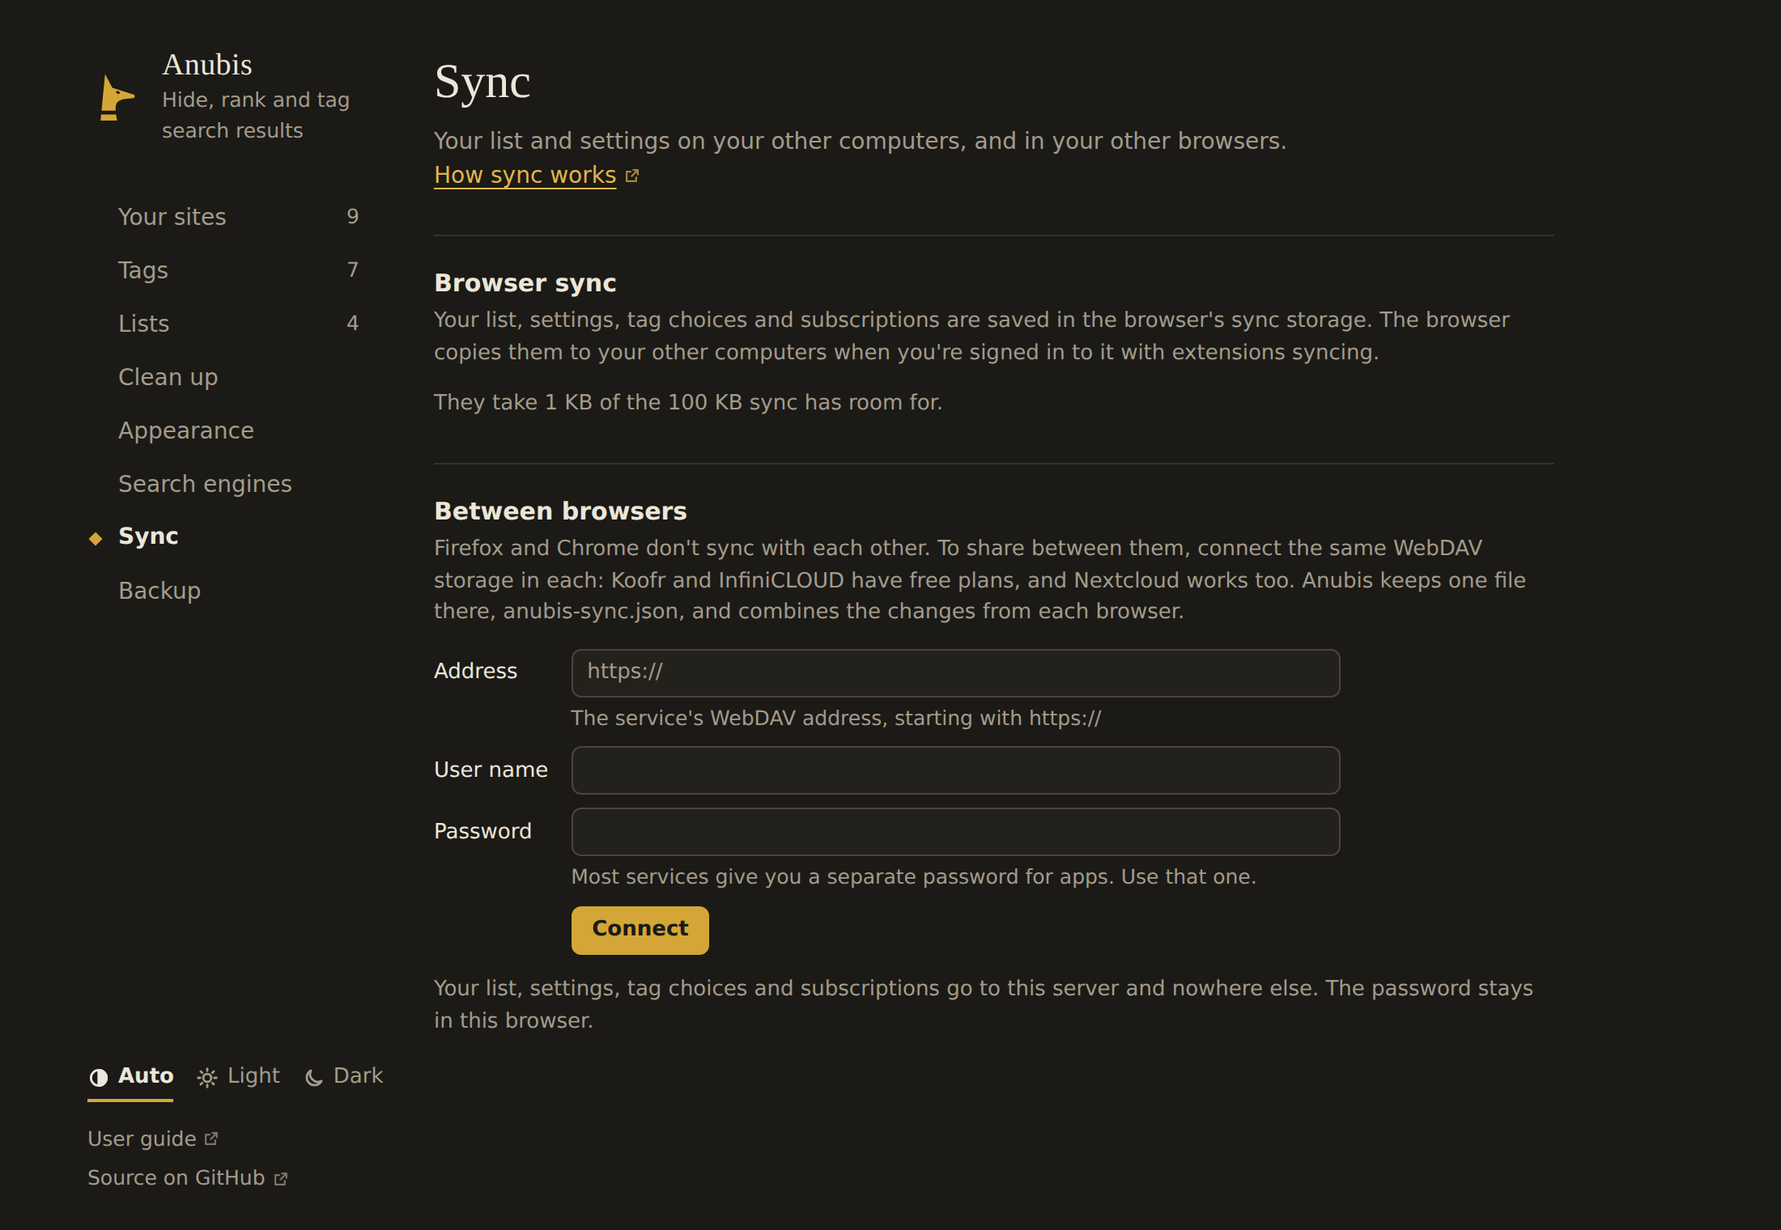
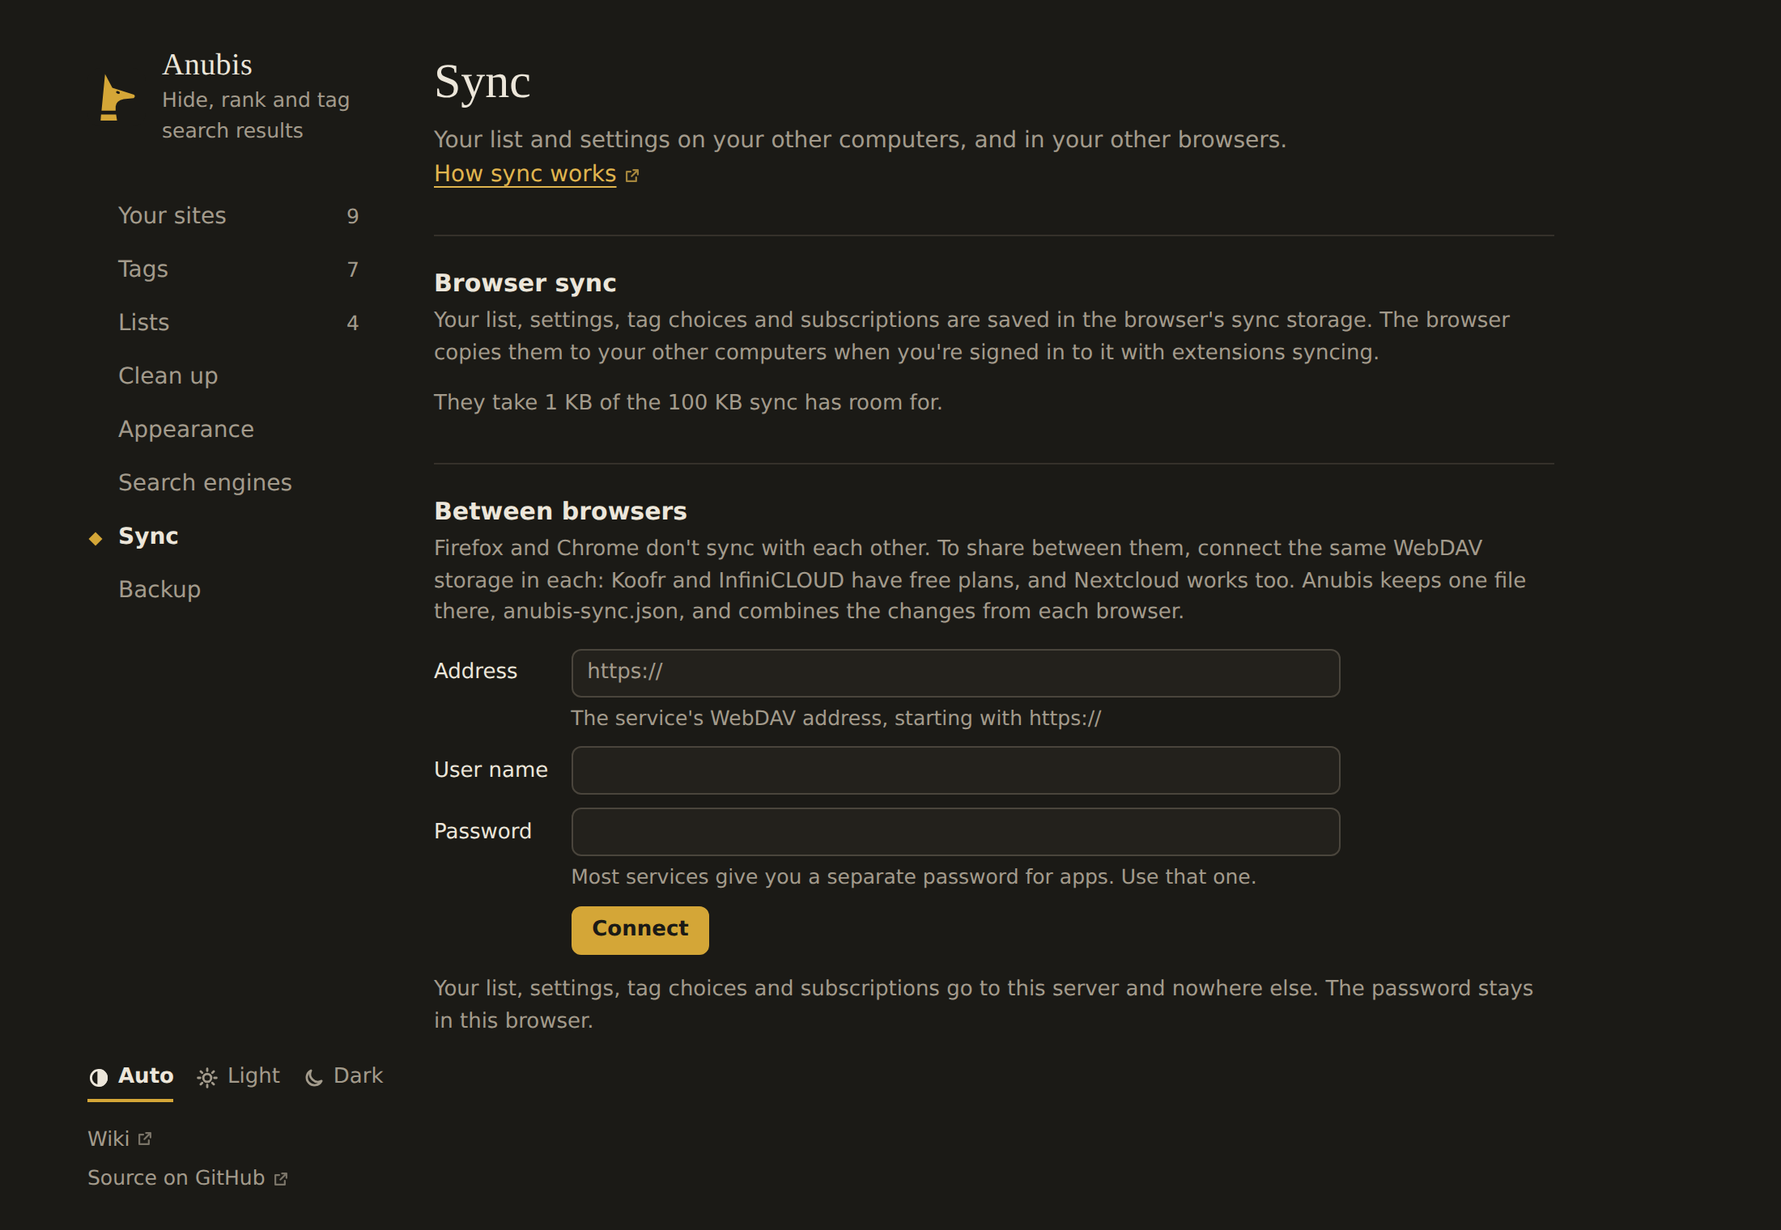
Call the user guide the wiki

diff --git a/entrypoints/options/main.ts b/entrypoints/options/main.ts
@@ -22,7 +22,7 @@ interface Section {
   id: string;
   label: string;
   render: () => Promise<HTMLElement>;
-  /** The user guide's page for this section, linked after its description. */
+  /** The wiki's page for this section, linked after its description. */
   help?: [path: string, label: string];
 }
 
@@ -76,7 +76,7 @@ async function renderNav() {
       'div',
       { class: 'foot' },
       themeSwitcher(rules.settings.theme),
-      h('div', { class: 'links' }, external(guide(), 'User guide'), external(REPO_URL, 'Source on GitHub')),
+      h('div', { class: 'links' }, external(guide(), 'Wiki'), external(REPO_URL, 'Source on GitHub')),
     ),
   );
 }

diff --git a/wxt.config.ts b/wxt.config.ts
@@ -18,7 +18,7 @@ export default defineConfig({
     // Text in the manifest comes from public/_locales/<language>/messages.json.
     default_locale: 'en',
     description: '__MSG_extDescription__',
-    // The user guide: the browser links to it from the extension's details page.
+    // The wiki: the browser links to it from the extension's details page.
     homepage_url: DOCS_URL,
     // "storage" saves your list, settings and downloaded lists. "activeTab" lets the
     // popup read the address of the tab you're on, only when you open it, so you can

diff --git a/entrypoints/subscribe.content.ts b/entrypoints/subscribe.content.ts
@@ -2,7 +2,7 @@ import { defineContentScript } from '#imports';
 import { readSubscribeLink, SUBSCRIBE_PAGE } from '@/utils/links';
 import { send } from '@/utils/messages';
 
-// Runs on the user guide's subscribe page, where the Subscribe links in the lists
+// Runs on the wiki's subscribe page, where the Subscribe links in the lists
 // directory (and on list authors' own pages) lead. It hands the list to the
 // background, which opens Settings → Lists with it filled in for you to confirm.
 // Nothing is subscribed from here: anyone can make a link.

diff --git a/tests/domain.test.ts b/tests/domain.test.ts
@@ -148,7 +148,7 @@ describe('subscribe links', () => {
     expect(readSubscribeLink(`?url=${encodeURIComponent(list)}&name=+++`)).toEqual({ url: list });
   });
 
-  it('points at a page the guide has', () => {
+  it('points at a page the wiki has', () => {
     expect(SUBSCRIBE_PAGE.startsWith(DOCS_URL)).toBe(true);
     expect(existsSync(`docs/${SUBSCRIBE_PAGE.slice(DOCS_URL.length)}.md`)).toBe(true);
   });

diff --git a/entrypoints/welcome/index.html b/entrypoints/welcome/index.html
@@ -49,7 +49,7 @@
 
       <footer>
         <div class="body">
-          <a id="guide" target="_blank" rel="noopener noreferrer" data-i18n="welcomeGuide">User guide</a>
+          <a id="guide" target="_blank" rel="noopener noreferrer" data-i18n="welcomeGuide">Wiki</a>
           <a id="privacy" target="_blank" rel="noopener noreferrer" data-i18n="welcomePrivacy">Privacy</a>
         </div>
       </footer>

diff --git a/entrypoints/options/parts.ts b/entrypoints/options/parts.ts
@@ -4,7 +4,7 @@ import { h } from '@/utils/dom';
 
 /**
  * A section's heading and what it's for, with its buttons beside them. main.ts
- * adds a link to the section's page in the user guide after the description.
+ * adds a link to the section's page in the wiki after the description.
  */
 export function pageTitle(heading: string, text: string, ...tools: HTMLElement[]): HTMLElement {
   return h(

diff --git a/docs/.vitepress/config.ts b/docs/.vitepress/config.ts
@@ -33,7 +33,7 @@ export default defineConfig({
   themeConfig: {
     logo: '/anubis.svg',
     nav: [
-      { text: 'Guide', link: '/guide/introduction', activeMatch: '/guide/' },
+      { text: 'Wiki', link: '/guide/introduction', activeMatch: '/guide/' },
       { text: 'Lists', link: '/lists' },
       { text: 'List format', link: '/list-format' },
     ],

diff --git a/utils/links.ts b/utils/links.ts
@@ -4,7 +4,7 @@
 export const REPO_URL = 'https://github.com/Bishop-V/anubis';
 export const DOCS_URL = 'https://bishop-v.github.io/anubis/';
 
-/** A page of the user guide, e.g. `guide('guide/lists')`. */
+/** A page of the wiki, e.g. `guide('guide/lists')`. */
 export const guide = (path = ''): string => `${DOCS_URL}${path}`;
 
 /**

diff --git a/DEVELOPMENT.md b/DEVELOPMENT.md
@@ -11,7 +11,7 @@ How the extension is put together, and how to make the changes that come up most
 | Vitest | Unit tests in `tests/`, with WXT's fake browser so storage code runs in Node. |
 | Playwright (`playwright-core`) | Drives Chromium for the end-to-end checks in `e2e/`. |
 | `web-ext lint` | Mozilla's add-on linter. CI fails on any warning. |
-| VitePress | The user guide in `docs/`, published to GitHub Pages. |
+| VitePress | The wiki in `docs/`, published to GitHub Pages. |
 
 Node 22 is what CI and releases use; `flake.nix` pins it for `nix develop`. `npm install` runs `wxt prepare`, which writes `.wxt/` (generated types and the `tsconfig.json` the repo's own extends). Type-checking fails until it has run.
 
@@ -28,8 +28,8 @@ npm run build          # .output/firefox-mv2/
 npm run build:chrome   # .output/chrome-mv3/
 npx web-ext lint -s .output/firefox-mv2
 npm run e2e            # Chrome build, then every end-to-end check (needs CHROMIUM_PATH)
-npm run docs:dev       # the user guide, with live reload
-npm run docs:build     # the user guide; fails on a broken link
+npm run docs:dev       # the wiki, with live reload
+npm run docs:build     # the wiki; fails on a broken link
 npm run zip            # store packages (see "Releasing")
 npm run zip:chrome
 ```
@@ -41,7 +41,7 @@ WXT turns each file or folder in `entrypoints/` into a part of the extension and
 | Entry point | Becomes | Runs |
 | --- | --- | --- |
 | `content/index.ts` | The main content script, `content.js`, with `page.css` injected beside it | On every search engine's pages (`ENGINE_MATCHES` from `utils/engines.ts`) |
-| `subscribe.content.ts` | A second content script | Only on the user guide's subscribe page |
+| `subscribe.content.ts` | A second content script | Only on the wiki's subscribe page |
 | `background.ts` | The background script: a service worker in Chrome, a background page in Firefox | Whenever the browser wakes it: install, startup, a message, a keyboard shortcut |
 | `popup/` | The toolbar button's popup | When the toolbar button is pressed |
 | `options/` | The settings page, opened in a tab | When opened |
@@ -166,7 +166,7 @@ Clean-up kinds live in `utils/cleanup.ts`:
 2. Add a row to the right settings section: `toggleRow` or `segRow` in `options/general.ts`, or `switchRow` from `options/parts.ts`.
 3. Read it where it's needed: `rules.settings` in the content script, `getSettings()` elsewhere.
 4. Changing a default for people who already use Anubis needs a one-time migration, run from the background script's `onInstalled` (see `migrateSettings`, which moved hidden results from Collapse to Remove).
-5. Describe it in the guide page for that section. Settings links each section to its page (`help` in `SECTIONS`), so keep page paths as they are.
+5. Describe it in the wiki page for that section. Settings links each section to its page (`help` in `SECTIONS`), so keep page paths as they are.
 
 Backups and the sync between browsers include every setting without further work.
 
@@ -225,7 +225,7 @@ Not everything is converted yet: `ROADMAP.md` lists what's left. Wording follows
 
 Parts print their findings rather than failing on them (turning them into assertions is on the roadmap), so read the output: a check that should say `false` and says `true` is a failure. Mock pages are models of the engines' markup, not copies of it; when an engine breaks, model the markup that broke as a variant of its mock (Google's `hostile` and `grouped` are examples) and never commit a page saved from a live search.
 
-`node e2e/run.mjs docs` redraws the user guide's screenshots in `docs/img/`, each in light and dark, the homepage's before and after, and the same pair as slides in `docs/public/`. Rendering differs slightly between runs, so commit only the images your change affects.
+`node e2e/run.mjs docs` redraws the wiki's screenshots in `docs/img/`, each in light and dark, the homepage's before and after, and the same pair as slides in `docs/public/`. Rendering differs slightly between runs, so commit only the images your change affects.
 
 ## Checking live pages
 
@@ -254,6 +254,6 @@ Mistakes that have been made once already. `docs/experiments.md` has the details
 - **Keep page state in the content script's variables**, not only in attributes: the next pass rewrites attributes, and engines trigger passes on hover.
 - **No `innerHTML`.** The add-on linter flags it. Build with `h()`, parse constant SVG with `DOMParser`, and pass `data-*` attributes to `h()` through `attrs`.
 - **Engines change their markup without notice.** Prefer structure (headings, links, nesting) to class names.
-- **Links to the guide's subscribe page carry `target="_self"`**, or VitePress's router follows them without loading the page, and the subscribe content script never runs.
+- **Links to the wiki's subscribe page carry `target="_self"`**, or VitePress's router follows them without loading the page, and the subscribe content script never runs.
 - **Keep `utils/engines.ts` and `utils/links.ts` free of browser APIs.** The build and the docs site import them.
 - **Don't change the Firefox add-on ID** in `wxt.config.ts`: it's the add-on's permanent identity, and a new one orphans everyone's stored settings.

diff --git a/CLAUDE.md b/CLAUDE.md
@@ -56,7 +56,7 @@ Everything on search pages was built against the mocks in `e2e/fixtures.mjs`: th
   - `deeper.ts`: "Load more results", bringing later result pages onto the current one
   - `cleanup.ts`: finding the blocks that clean-up removes (AI answers, video panels…), and its redirect to Google's Web tab
   - `page.css`: page-level treatments keyed off `data-anubis-*` attributes (hidden, lowered, pinned, highlight, rerank)
-- `entrypoints/subscribe.content.ts`: runs only on the guide's subscribe page (`…/anubis/subscribe?url=…&name=…`, where subscribe links lead) and asks the background to open Settings → Lists with that list filled in. Settings asks before subscribing: anyone can make a link.
+- `entrypoints/subscribe.content.ts`: runs only on the wiki's subscribe page (`…/anubis/subscribe?url=…&name=…`, where subscribe links lead) and asks the background to open Settings → Lists with that list filled in. Settings asks before subscribing: anyone can make a link.
 - `entrypoints/background.ts`: list updates (on startup and when a search page asks, at most every 30 minutes), syncing with a WebDAV server when one is connected (a few seconds after a change, on startup, and when a search page asks, at most every 5 minutes), the toolbar badge, the grey icon while Anubis is off (`public/icon-off/`), and opening the welcome page on first install
 - `entrypoints/popup/`: changes with the tab: what Anubis did on a search page (and its tags to show only), the site you're on in the cartouche and balance (`utils/balance.ts`, shared with the result menu), or adding a site by hand; then the last few of your sites
 - `entrypoints/welcome/`: the page that opens on first install: how to pin the toolbar button in this browser, searches to try, and the lists you start with
@@ -66,10 +66,10 @@ Everything on search pages was built against the mocks in `e2e/fixtures.mjs`: th
 - `utils/storage.ts`, `utils/ruleset.ts`, `utils/subscriptions.ts`: storage items, loading everything into one rule set, downloading lists
 - `utils/importers.ts`: bringing sites over from uBlacklist rules, HOHSER exports, Goggles and domain lists
 - `utils/backup.ts`: everything that follows the user (settings, tag choices, subscriptions, the personal list), as a backup file and as the sync file; `utils/merge.ts`: three-way merges of it; `utils/webdav.ts`: the optional sync between browsers through a WebDAV server
-- `utils/links.ts`: the user guide and repository addresses the extension links to, and subscribe links
+- `utils/links.ts`: the wiki and repository addresses the extension links to, and subscribe links
 - `utils/cleanup.ts`: the clean-up kinds, the headings that identify each one (with translations) and per-engine selectors
 - `lists/`: the bundled lists and `directory.json` (the "More lists" directory). `docs/list-format.md` is the format reference.
-- `docs/`: the documentation site. `guide/` holds the user guide, `lists.md` renders `lists/directory.json`, and `.vitepress/` holds the config and brand theme. The extension links to the published site through `utils/links.ts` (the manifest's `homepage_url`, the popup's Help link, a guide link on each settings section). Earlier builds link to `docs/list-format.md` on GitHub, so don't move that file, and keep page paths stable or the links from settings break. `subscribe.md` is where subscribe links lead and what the subscribe content script matches, so it can't move either. Write for people who use the extension, in the same plain words as its interface, and update the guide when a feature changes.
+- `docs/`: the documentation site. `guide/` holds the wiki's pages, `lists.md` renders `lists/directory.json`, and `.vitepress/` holds the config and brand theme. The extension links to the published site through `utils/links.ts` (the manifest's `homepage_url`, the popup's Help link, a wiki link on each settings section). Earlier builds link to `docs/list-format.md` on GitHub, so don't move that file, and keep page paths stable or the links from settings break. `subscribe.md` is where subscribe links lead and what the subscribe content script matches, so it can't move either. Write for people who use the extension, in the same plain words as its interface, and update the wiki when a feature changes.
 - `public/`: the logo (`anubis.svg`), toolbar icons (`icon/{16,32,48,96,128}.png`) and interface text (`_locales/`). WXT detects these automatically.
 - `store/`: store listing text and images. `ROADMAP.md`: planned work.
 

diff --git a/CONTRIBUTING.md b/CONTRIBUTING.md
@@ -9,7 +9,7 @@ Thanks for helping. Everything happens on GitHub: issues for reports and ideas, 
 - **Report a search engine that broke.** Name the engine and its country domain (`google.de`), give a search that shows the problem, and add a screenshot. For panels that don't go away, add the output of the snippet in [Troubleshooting](docs/guide/troubleshooting.md), which copies the page's structure without its text. Never attach a saved search page: it holds your account, your location and more.
 - **Report a security problem** privately, not in an issue. [SECURITY.md](SECURITY.md) says how.
 - **Fix a bug or build a feature.** For anything bigger than a small fix, open an issue first so the approach can be agreed before you spend time on it. [`ROADMAP.md`](ROADMAP.md) lists planned work.
-- **Improve the user guide** in [`docs/`](docs), which is published at [bishop-v.github.io/anubis](https://bishop-v.github.io/anubis/).
+- **Improve the wiki** in [`docs/`](docs), which is published at [bishop-v.github.io/anubis](https://bishop-v.github.io/anubis/).
 - **Translate.** Not open yet; the Translation section of [`ROADMAP.md`](ROADMAP.md) says what's left before it is.
 
 ## Getting set up
@@ -36,7 +36,7 @@ Keep each pull request to one topic. The project's conventions, briefly:
 - **Permissions.** Ask for as few as possible, and only the ones a feature actually needs.
 - **Search pages.** Engines change their markup without notice, so find things by structure (headings, links, nesting) rather than class names. For a fix to an engine, add the layout that broke as a variant of that engine's mock page in `e2e/fixtures.mjs`, with a check in `e2e/run.mjs`, and confirm the check fails without your change.
 - **Record what you tried** in [`docs/experiments.md`](docs/experiments.md), including what didn't work.
-- **Update the guide** in `docs/guide/` when behaviour changes. Keep page paths as they are: the extension links to them.
+- **Update the wiki** in `docs/guide/` when behaviour changes. Keep page paths as they are: the extension links to them.
 - **Keep committed files neutral.** No captured search pages, and nothing personal: names, emails, locations or machine details.
 
 [`DEVELOPMENT.md`](DEVELOPMENT.md) explains how the code fits together, has step-by-step recipes for the usual changes (an engine, a clean-up panel, a setting, interface text) and lists the mistakes that have already been made once.
@@ -52,12 +52,12 @@ npm run build && npm run build:chrome   # both browsers
 npx web-ext lint -s .output/firefox-mv2 # must show zero warnings
 ```
 
-If you changed `docs/`, also run `npm run docs:build`, which fails on a broken link. If you changed something the guide's screenshots show, redraw them with `node e2e/run.mjs docs` (it makes light and dark versions) and commit only the ones your change affects. If you changed anything on search pages and have Chromium, run `npm run e2e` with `CHROMIUM_PATH` set; it needs no network.
+If you changed `docs/`, also run `npm run docs:build`, which fails on a broken link. If you changed something the wiki's screenshots show, redraw them with `node e2e/run.mjs docs` (it makes light and dark versions) and commit only the ones your change affects. If you changed anything on search pages and have Chromium, run `npm run e2e` with `CHROMIUM_PATH` set; it needs no network.
 
 ## Pull requests and merging
 
 - **Changes reach `main` only through pull requests.** Direct pushes and force-pushes to `main` are refused, and the branch can't be deleted.
-- **CI must pass.** The `check` job (type-check, tests, both builds and the add-on linter) is required before anything merges. Changes to the guide also run the Docs build.
+- **CI must pass.** The `check` job (type-check, tests, both builds and the add-on linter) is required before anything merges. Changes to the wiki also run the Docs build.
 - **Review and merge.** A maintainer reviews the pull request and merges it with a merge commit, sometimes by turning on auto-merge, which merges it as soon as `check` passes. Your branch doesn't have to be up to date with `main`. If it conflicts, merge `main` into it rather than rebasing a branch someone else may have checked out.
 - **Commit messages** are a short summary line saying what the change does ("Remove whole video panels on Google"), with a body only when the reason isn't obvious from the diff.
 - **Releases** are cut by the maintainers by tagging a version (see the [README](README.md#building-the-store-release)).

diff --git a/README.md b/README.md
@@ -3,7 +3,7 @@ Browser extension for filtering search results, and much more.
 
 In Egyptian myth, Anubis weighed each heart against a feather. This extension weighs search results: it tags them, raises the ones you trust, lowers or hides the ones you don't, and lets you subscribe to lists other people publish, the way Brave Goggles do, but on the search engine you already use.
 
-**[Read the user guide →](https://bishop-v.github.io/anubis/)**
+**[Read the wiki →](https://bishop-v.github.io/anubis/)**
 
 ## What it does
 
@@ -21,7 +21,7 @@ In Egyptian myth, Anubis weighed each heart against a feather. This extension we
 
 Works on Google (every country domain), DuckDuckGo (including the HTML and Lite versions), Bing, Brave Search, Startpage, Ecosia, Kagi, Yahoo, Yandex and Mojeek.
 
-It asks for the `storage` and `activeTab` permissions (the second lets the toolbar popup read the address of the tab you're on, only when you open it) and runs on search result pages, plus the user guide's subscribe page so subscribe links work. Lists hosted on GitHub download without any extra permission; lists hosted elsewhere ask for access to that one host when you subscribe. Nothing is sent anywhere else.
+It asks for the `storage` and `activeTab` permissions (the second lets the toolbar popup read the address of the tab you're on, only when you open it) and runs on search result pages, plus the wiki's subscribe page so subscribe links work. Lists hosted on GitHub download without any extra permission; lists hosted elsewhere ask for access to that one host when you subscribe. Nothing is sent anywhere else.
 
 ## Setup
 
@@ -85,7 +85,7 @@ To publish a version, set `version` in `package.json`, merge it, then push a mat
 
 ## Documentation
 
-The user guide is at **[bishop-v.github.io/anubis](https://bishop-v.github.io/anubis/)**, built from [`docs/`](docs) (start with [the introduction](docs/guide/introduction.md)). `npm run docs:dev` previews it locally.
+The wiki is at **[bishop-v.github.io/anubis](https://bishop-v.github.io/anubis/)**, built from [`docs/`](docs) (start with [the introduction](docs/guide/introduction.md)). `npm run docs:dev` previews it locally.
 
 - [Developing Anubis](DEVELOPMENT.md): how the extension is put together, how a build is made, and how to add an engine, a setting or interface text.
 - [Accessibility](ACCESSIBILITY.md): keeping Anubis usable with a screen reader and from the keyboard, and where it falls short today.
